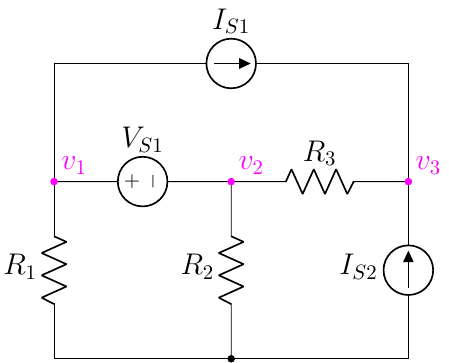
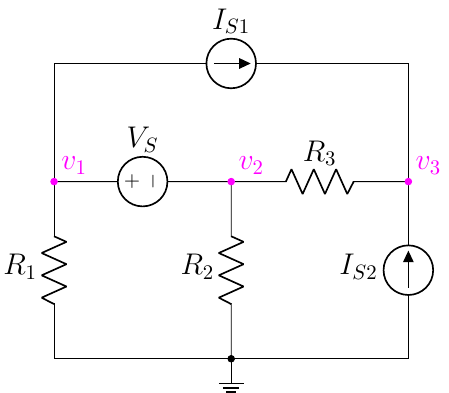
edit 1

diff --git a/1.4 Supernode/3.3 Super Nodal Analysis/1(new).tex b/1.4 Supernode/3.3 Super Nodal Analysis/1(new).tex
@@ -11,10 +11,10 @@
                 to[short] ++(0,2);
 
     %%% horizontal %%%
-    \draw (0,0) to[short,-*] ++(3,0)  
+    \draw (0,0) to[short,-*] ++(3,0)  node[ground]{}
                 to[short] ++(3,0);
     \draw (6,3) to[R,l_=\rname{3}] ++(-3,0) 
-                to[V,l_=\vsname{1}] ++(-3,0);
+                to[V,l_=\vsname{}] ++(-3,0);
 
     \draw (0,5) to[I, l=\isname{1}] ++(6,0);
     %%% find %%%
